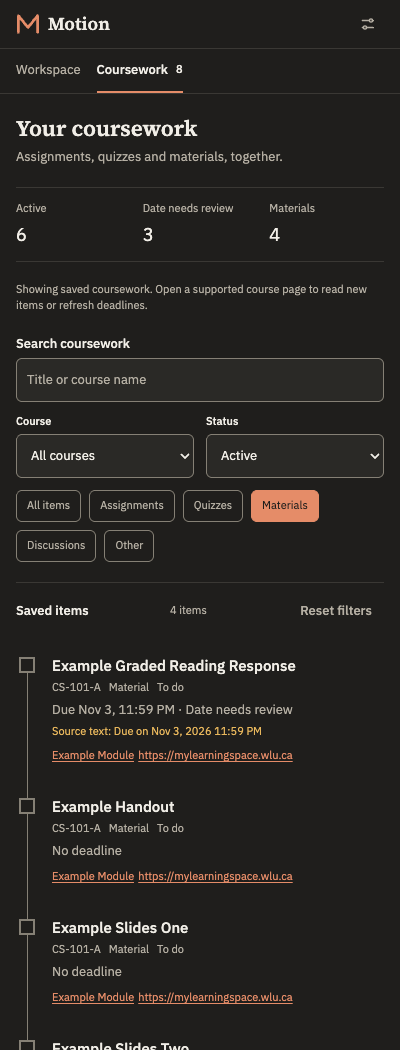
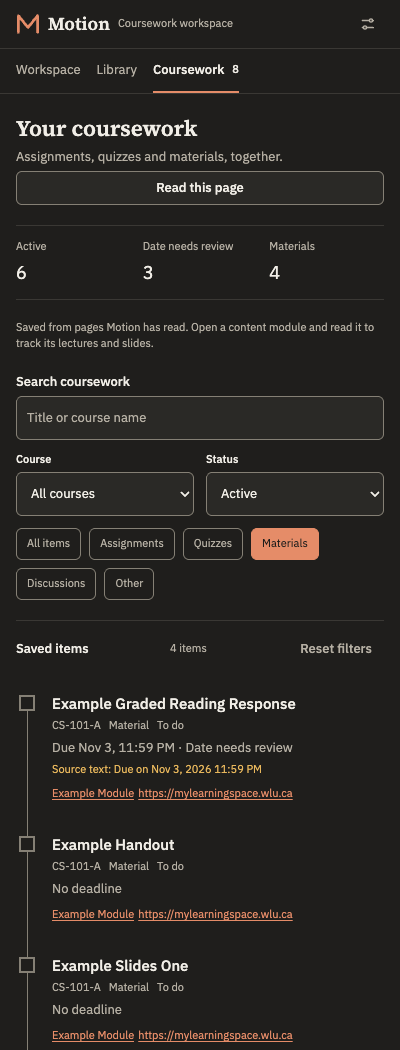
Keep the page reader available after saving coursework
Once an undated lecture was saved, Workspace and Coursework no longer offered a manual page read. Keep that action available on supported pages with saved records so students can read additional content and assessment lists.

Record the installed MyLearningSpace check: observed PDF fetching indexed all 22 pages, later-page text matched the original selectable text after whitespace normalization, and content, assignment-list, quiz-list and dashboard reads preserved the saved data. All committed screenshots and fixtures remain synthetic.

Typecheck, lint, build, 1,253 unit tests, 68 extension checks, 20 coursework checks, 25 document checks and 17 release integrity tests passed. Coursework and document runs include optional light/dark accessibility audits.

diff --git a/src/sidepanel/App.test.tsx b/src/sidepanel/App.test.tsx
@@ -201,6 +201,27 @@ it('keeps restricted mode read-only and free of automation controls', () => {
 });
 
 describe('Home', () => {
+  it('keeps the current-page reader available after saving an undated material', async () => {
+    const user = userEvent.setup();
+    const commands: MotionCommand[] = [];
+    const saved = state({
+      tasks: [
+        {
+          ...task,
+          kind: 'content',
+          due: { ...task.due, iso: null, raw: '', zoneEvidence: 'none' },
+        },
+      ],
+    });
+    const { rerender } = render(<App bridge={bridgeFor(saved, commands)} now={NOW} />);
+    const read = screen.getByRole('button', { name: 'Read this page' });
+    read.focus();
+    await user.keyboard('{Enter}');
+    expect(commands).toEqual([{ type: 'read-page', url: saved.page.url }]);
+    rerender(<App bridge={bridgeFor({ ...saved, busy: true }, commands)} now={NOW} />);
+    expect(screen.getByRole('button', { name: 'Reading page…' })).toBeDisabled();
+  });
+
   it('hides an active session, conversation and sources beside a restricted attempt', () => {
     render(
       <App

diff --git a/src/sidepanel/views/CourseworkView.test.tsx b/src/sidepanel/views/CourseworkView.test.tsx
@@ -57,6 +57,27 @@ function bridge(state: PanelState, commands: MotionCommand[] = []): MotionBridge
   };
 }
 
+it('reads the current course page while saved coursework is already present', async () => {
+  const user = userEvent.setup();
+  const commands: MotionCommand[] = [];
+  const saved: PanelState = {
+    ...panelState,
+    connection: 'supported',
+    page: {
+      ...panelState.page,
+      url: 'https://lms.example.test/new-module',
+      pageType: 'content-module',
+    },
+  };
+  render(<App bridge={bridge(saved, commands)} now={NOW} />);
+  await user.click(screen.getByRole('button', { name: /Coursework/ }));
+  const read = screen.getByRole('button', { name: 'Read this page' });
+  read.focus();
+  await user.keyboard('{Enter}');
+  expect(commands).toEqual([{ type: 'read-page', url: saved.page.url }]);
+  expect(screen.getByRole('heading', { name: material.title })).toBeInTheDocument();
+});
+
 it('browses saved coursework away from the LMS using keyboard-accessible filters', async () => {
   const user = userEvent.setup();
   const commands: MotionCommand[] = [];

diff --git a/src/sidepanel/views/Home.tsx b/src/sidepanel/views/Home.tsx
@@ -572,6 +572,15 @@ export function Home({ state, send, onOpenSession, now }: HomeProps) {
       <div className="grid gap-1">
         <h1 className="font-serif text-xl font-semibold">Your workspace</h1>
         <PageContextLine state={state} now={now} />
+        {state.sessions.length > 0 || state.tasks.length > 0 ? (
+          <Button
+            variant="secondary"
+            disabled={state.busy}
+            onClick={() => send({ type: 'read-page', url: state.page.url })}
+          >
+            {state.busy ? 'Reading page…' : 'Read this page'}
+          </Button>
+        ) : null}
       </div>
       <HomeComposer onStart={start} disabled={false} />
       <DiscoveryControls state={state} send={send} now={now} />

diff --git a/src/sidepanel/views/CourseworkView.tsx b/src/sidepanel/views/CourseworkView.tsx
@@ -99,6 +99,15 @@ export function CourseworkView({
       <div className="grid gap-1">
         <h1 className="font-serif text-xl font-semibold">Your coursework</h1>
         <p className="text-sm text-ink-muted">Assignments, quizzes and materials, together.</p>
+        {tasks.length > 0 && state.connection === 'supported' ? (
+          <Button
+            variant="secondary"
+            disabled={state.busy}
+            onClick={() => send({ type: 'read-page', url: state.page.url })}
+          >
+            {state.busy ? 'Reading page…' : 'Read this page'}
+          </Button>
+        ) : null}
       </div>
       <dl className="motion-coursework-summary">
         <div>

diff --git a/docs/verification/document-indexing.md b/docs/verification/document-indexing.md
@@ -26,7 +26,7 @@ library refreshed to an empty state. An import ticket issued before deletion cou
 data. A synthetic graded attempt removed library/text/import controls and the
 worker refused document sources. No real assessment attempt was opened.
 
-## Private lecture check and live-account limit
+## Private lecture and authenticated-account checks
 
 A lecture PDF was downloaded through the authenticated MyLearningSpace browser
 and then imported into the built extension's isolated temporary profile. It
@@ -35,45 +35,60 @@ the file, extracted text, student details and real course identifiers are absent
 from repository fixtures, logs and screenshots. Its index and temporary profile
 were removed after verification. Screenshots were captured before this import.
 
-This verifies the actual lecture file's local decoding and storage. It does not
-verify authenticated extension downloading or the full installed extension
-against the signed-in account. Browser control rejected the extension-manager
-URL, so that installed-account check remains **unverified**. No alternative
-profile, cookie transfer or policy workaround was used.
+The first installed-account attempt found an older build and worker. Current
+artifacts were staged in the existing installed folder with backups. Browser
+control refused the extension-manager URL; the student updated the extension
+manually. No profile or cookie transfer was used. After refreshing the lecture
+page, the installed worker and content observer responded normally.
 
-An installed-account follow-up found that the selected folder still held an
-older build. The signed-in session renewed and the old observer recognized the
-lecture topic after a page refresh. Current artifacts were staged in that
-installed folder with a backup, and reopening the panel displayed Library and
-Coursework. The still-running old worker rejected the new document commands;
-this does not verify authenticated file fetching or indexing. No real assessment
-or course mutation was performed. A regression test verifies that the panel
-maps this version mismatch to reload instructions instead of its raw internal
-command list; that recovery message has not yet been checked in the installed
-browser.
+The installed extension then passed a read-only check of one signed-in course:
 
-The remaining check needs the current `dist/` build loaded with **Load unpacked**
-or the existing unpacked extension **Reloaded** in the signed-in Chromium browser,
-followed by an LMS page refresh. On a lecture topic, open Library, choose
-**Find files on this page**, index the observed file and compare a later-page
-search result and source topic with the original. Repeat read-only coursework
-tracking on content, assignment and quiz-list pages without starting an attempt.
-The [manual checklist](../MANUAL-TESTING.md#local-document-library) records the
-full steps.
+- **Authenticated PDF download:** Library discovered the embedded viewer's
+  observed file, downloaded it through Motion and indexed **22/22 pages**.
+  Its source link retained the actual lecture topic.
+- **Search and text:** a concept returned three page references, including a
+  later page. That page's preview contained the original PDF viewer's selectable
+  text after whitespace normalization.
+- **Course and persistence:** reading the lecture saved its course and one
+  undated material. Reindexing associated the previously unassigned PDF with
+  that course without adding a duplicate. Its index survived closing and
+  reopening Motion, navigation to content and the dashboard.
+- **Content and assignments:** the content module read successfully. Reading
+  the assignment list saved three entries; all three titles matched its visible
+  rows. Status filters and uncertain-date labels remained available.
+- **Quiz list:** its single visible quiz was saved with a matching title. The
+  list stayed readable; no quiz link or attempt was opened.
+- **Dashboard:** reading the main dashboard retained five saved coursework
+  items and one document, without inventing dashboard tasks. Workspace cleared
+  the previous course prefix. An expired LMS session renewed through its normal
+  login link and page refresh, without credentials entering diagnostics.
+
+This check also exposed a reader control disappearing after the first saved
+material. Workspace and Coursework now retain **Read this page** on supported
+pages with saved records. The installed panel read the content, assignment,
+quiz-list and dashboard pages through that control. Unit and built-browser
+regressions cover its availability; busy state disables the new control.
+
+Real saved items and the lecture index remain in the student's extension.
+Committed evidence contains route shapes, counts and booleans, with synthetic
+screenshots only. No real assessment or consequential course action was
+performed. This verifies the exercised routes in one course, not every course,
+LMS configuration, private PowerPoint file or provider-backed action. The
+[manual checklist](../MANUAL-TESTING.md#local-document-library) records the steps.
 
 ## Automated evidence
 
 | Check                                                  | Result                                                                                               |
 | ------------------------------------------------------ | ---------------------------------------------------------------------------------------------------- |
 | `npm run typecheck`                                    | Passed                                                                                               |
-| `npm test`                                             | 95 files, 1,251 tests passed                                                                         |
+| `npm test`                                             | 95 files, 1,253 tests passed                                                                         |
 | `npm run lint`                                         | Passed                                                                                               |
 | `npm run build`                                        | Passed; service-worker AST check rejects DOM globals                                                 |
-| `npm run test:documents` with axe and private PDF      | 26/26 checks passed                                                                                  |
+| `npm run test:documents` with axe                      | 25/25 checks passed                                                                                  |
 | `npm run test:extension`                               | 68/68 checks passed                                                                                  |
 | `npm run test:agent`                                   | 45/45 checks passed; optional real-provider stream branch skipped by headless permissions            |
 | `npm run test:popup-presence`                          | 6/6 checks passed                                                                                    |
-| `npm run test:coursework` with axe                     | 18/18 checks passed                                                                                  |
+| `npm run test:coursework` with axe                     | 20/20 checks passed                                                                                  |
 | Provider test build and `npm run test:provider-stream` | 16/16 local synthetic provider checks passed                                                         |
 | `npm run test:release`                                 | 17 tests passed                                                                                      |
 | `npm run test:keychain`                                | 12 tests passed                                                                                      |
@@ -108,8 +123,10 @@ npm run test:documents
 
 `MOTION_REAL_DOCUMENT_PATH` optionally adds a downloaded private PDF after the
 synthetic screenshots. It logs only counts and deletes the temporary profile.
-The normal CI path has 23 checks; axe adds two and the private-file probe adds
-one. CI does not receive real lecture files or authenticated credentials.
+The normal document CI path has 23 checks; axe adds two and the private-file
+probe adds one. The earlier private-file run passed 26/26 checks. Coursework
+has 18 normal checks, plus two optional theme audits. CI does not receive real
+lecture files or authenticated credentials.
 
 Limits are 20 MB, 30 seconds, 200 pages/slides, 200,000 total characters,
 12,000 characters per unit and 100 saved indexes. PDF indexing needs Chromium

diff --git a/docs/ROADMAP.md b/docs/ROADMAP.md
@@ -23,10 +23,15 @@ phase entries below retain their original scope and evidence.
 - **Verified with a private downloaded lecture:** the production extension
   indexed 22/22 pages and 11,741 characters in an isolated temporary profile.
   Only counts are recorded; course content is absent from fixtures/screenshots.
+- **Installed-account follow-up:** authenticated observed-file fetching indexed
+  22/22 lecture pages. Later-page text contained the original viewer's selectable text; reindexing,
+  course association and panel persistence passed. Content, three assignment
+  entries, one quiz-list entry and dashboard reads passed. The page reader stays
+  available after saving coursework. No real attempt or course mutation was performed.
 - **Limits:** no OCR, legacy `.ppt`, speaker notes or automatic whole-course
-  crawling. PDF indexing needs Chromium 125+. Full installed-extension execution
-  against the authenticated account remains unverified because browser control
-  blocks the extension manager. See [document verification](verification/document-indexing.md).
+  crawling. PDF indexing needs Chromium 125+. Wider course/deployment coverage,
+  live PowerPoint fetching and provider-backed work remain unverified. See
+  [document verification](verification/document-indexing.md).
 
 ## Coursework overview and MyLearningSpace compatibility (2026-10-02)
 
@@ -84,7 +89,7 @@ planned follow-ups, not verified Motion behavior:
 | Risk, approval and assessment policy | **Done** | `src/core/policy`; 21 tests incl. forged-approval and replay cases. A graded attempt records that the tab is restricted and nothing else — no URL, title, warnings or content — and the panel shows restricted mode for that tab, including when a course page is open in another tab (`npm run test:extension`) |
 | Page detection | **Partial** | Route table covers the D2L route shapes listed in `docs/MANUAL-TESTING.md`, tested against synthetic fixtures and the built extension in Chromium (`npm run test:extension`). Dashboard, course home, content module, assignment list, assignment, discussion list, quiz list, grades, calendar, unrecognised routes, and `/d2l/lms/news/main.d2l` announcements are live-verified. This change also fixes stale course fallback, quiz collapse from `javascript://` links, URL-variant duplicate ids, availability dates being treated as due dates, page-name course titles, and the signed-out body-script stub. `navigateContent` topics and a live expired session remain unverified |
 | Typed messaging + sender authorization | **Partial** | Both directions are Zod-validated; worker results the panel renders are centrally validated in `src/sidepanel/responses.ts`; actor snapshots and clicks reject external, insecure, and script link destinations. Content actor channel authentication and one-shot capability enforcement are under final source/browser review; the current browser run does not yet prove extension-page forgery resistance. |
-| Extension shell (worker, panel, popup) | **Partial** | Worker, side panel, default-popup launcher and options page are implemented; unit and extension coverage exercise validated popup intents, synchronous side-panel opening, panel state, product mark and presence layer. Browser verification of the current build remains pending. |
+| Extension shell (worker, panel, popup) | **Partial** | Worker, side panel, default-popup launcher and options page pass unit and production-extension browser checks. The installed launcher, panel and observer also passed the read-only follow-up in one signed-in course. Wider installation/platform coverage remains pending. |
 | Basic tab grouping | **Partial** | **Prepare workspace** and explicit popup Start/Continue actions open or resume a named Motion workspace. Grouping and student-tab adoption are explicit and policy-checked; a toolbar click alone does not create a group. Unit-tested against an in-memory browser and synthetic D2L pages; live LMS and current browser-matrix behavior remain unverified |
 
 ## Phase B — Course organization
@@ -94,7 +99,7 @@ planned follow-ups, not verified Motion behavior:
 | D2L adapter and synthetic fixtures | **Partial** — route-based selectors, with fixtures rebuilt from the structure the live deployment actually serves. A list row, not a link, is now the unit of extraction: D2L puts several links to the same work on one row |
 | MyLearningSpace (institution deployment) support | **Partial** — live verification covers the recorded route shapes; synthetic fixtures pin the deployment-specific markup fixes for submission-count titles, duplicate discussion rows, quiz-list restricted-mode detection, page-name course titles, and the signed-out body-script stub. No live identifiers or course records are retained |
 | Deadline extraction with provenance and confidence | **Partial** — extraction, storage upsert, discovery, reminders, and correction history are implemented and focused-tested; live LMS behavior remains unverified |
-| Course dashboard | **Partial** — saved-coursework filters and local PDF/PPTX text indexing are implemented and browser verified; no whole-course lecture crawl or complete installed live-account verification |
+| Course dashboard | **Partial** — saved-coursework filters and local PDF/PPTX text indexing are browser verified; one installed signed-in course passed observed PDF indexing and read-only list tracking; no whole-course lecture crawl or deployment-wide verification |
 | Task correction and archive | **Partial** — corrections, canonical-id migration, dependent repointing, and archive tombstones are implemented and focused-tested; live LMS behavior remains unverified |
 | Source-linked notes | **Not started** — schema exists |
 

diff --git a/docs/MANUAL-TESTING.md b/docs/MANUAL-TESTING.md
@@ -199,10 +199,13 @@ commit a raw DOM dump, HAR, screenshot, console log or browser profile.
 
 Use the current `dist/` build in Chromium 125+ for PDF indexing.
 
-1. On an authenticated MyLearningSpace lecture topic, open Motion's Library
+1. On an authenticated MyLearningSpace lecture topic, choose **Read this page**
+   in Workspace or Coursework to save its course. The control must remain
+   available after the first material is saved. Then open Motion's Library
    and select **Find files on this page**. Confirm that the PDF viewer's file
    appears as a choice. Index it and verify its title, course, page count and
-   source topic against the original file. Repeat for a PPTX if the course has one.
+   source topic against the original file. If an earlier index has no course,
+   reindex its observed source after saving the course. Repeat for a PPTX if the course has one.
 2. Search a phrase from a later page/slide. Confirm the result's page/slide
    number and the text preview's initially selected unit. Switch units with
    the keyboard. Index the same LMS source twice and confirm one saved index.

diff --git a/docs/adr/0010-local-document-indexing.md b/docs/adr/0010-local-document-indexing.md
@@ -52,5 +52,8 @@ Synthetic unit and production-extension tests cover malformed input, worker
 cleanup, limits, ordered Unicode slide text, search, provenance, deletion and
 assessment boundaries. A private lecture downloaded through the authenticated
 LMS was indexed in an isolated extension profile; only counts were retained.
-Authenticated extension fetching and the complete installed live-account flow
-remain unverified. See [document verification](../verification/document-indexing.md).
+The installed extension subsequently downloaded an observed PDF from one
+signed-in course and indexed all 22 pages. Search, course association,
+reindexing, persistence and read-only list tracking passed. Broader deployment
+coverage and real PowerPoint fetching remain unverified. See
+[document verification](../verification/document-indexing.md).

diff --git a/docs/verification/coursework-overview.md b/docs/verification/coursework-overview.md
@@ -35,7 +35,10 @@ were recorded. No quiz attempt was opened and no coursework was submitted.
 The in-app browser used for authenticated inspection cannot load Motion's MV3
 extension. Live markup was inspected there; extension execution was verified
 separately in isolated Chromium against synthetic pages. A complete installed
-extension run against the authenticated account remains unverified.
+extension run against the authenticated account remained unverified in this
+initial run. The [2026-10-04 follow-up](document-indexing.md#private-lecture-and-authenticated-account-checks)
+verified the installed extension's lecture indexing, content, assignment list,
+quiz list and dashboard reads in one signed-in course.
 
 ## Automated evidence
 

diff --git a/docs/THREAT_MODEL.md b/docs/THREAT_MODEL.md
@@ -476,7 +476,8 @@ trusted-extension compromise remains an accepted limitation of any local vault.
 ## T25 — Untrusted lecture files, source forgery and stale imports
 
 **Status: Mitigated in unit and production-browser tests.** Authenticated
-extension downloading still needs a live installed-account check.
+observed-PDF downloading also passed in one installed signed-in course.
+Broader deployment coverage and live PowerPoint fetching remain unverified.
 
 Documents may contain hostile PDF data, compressed archives, XML entities,
 external relationships or misleading source links. The worker accepts observed,
